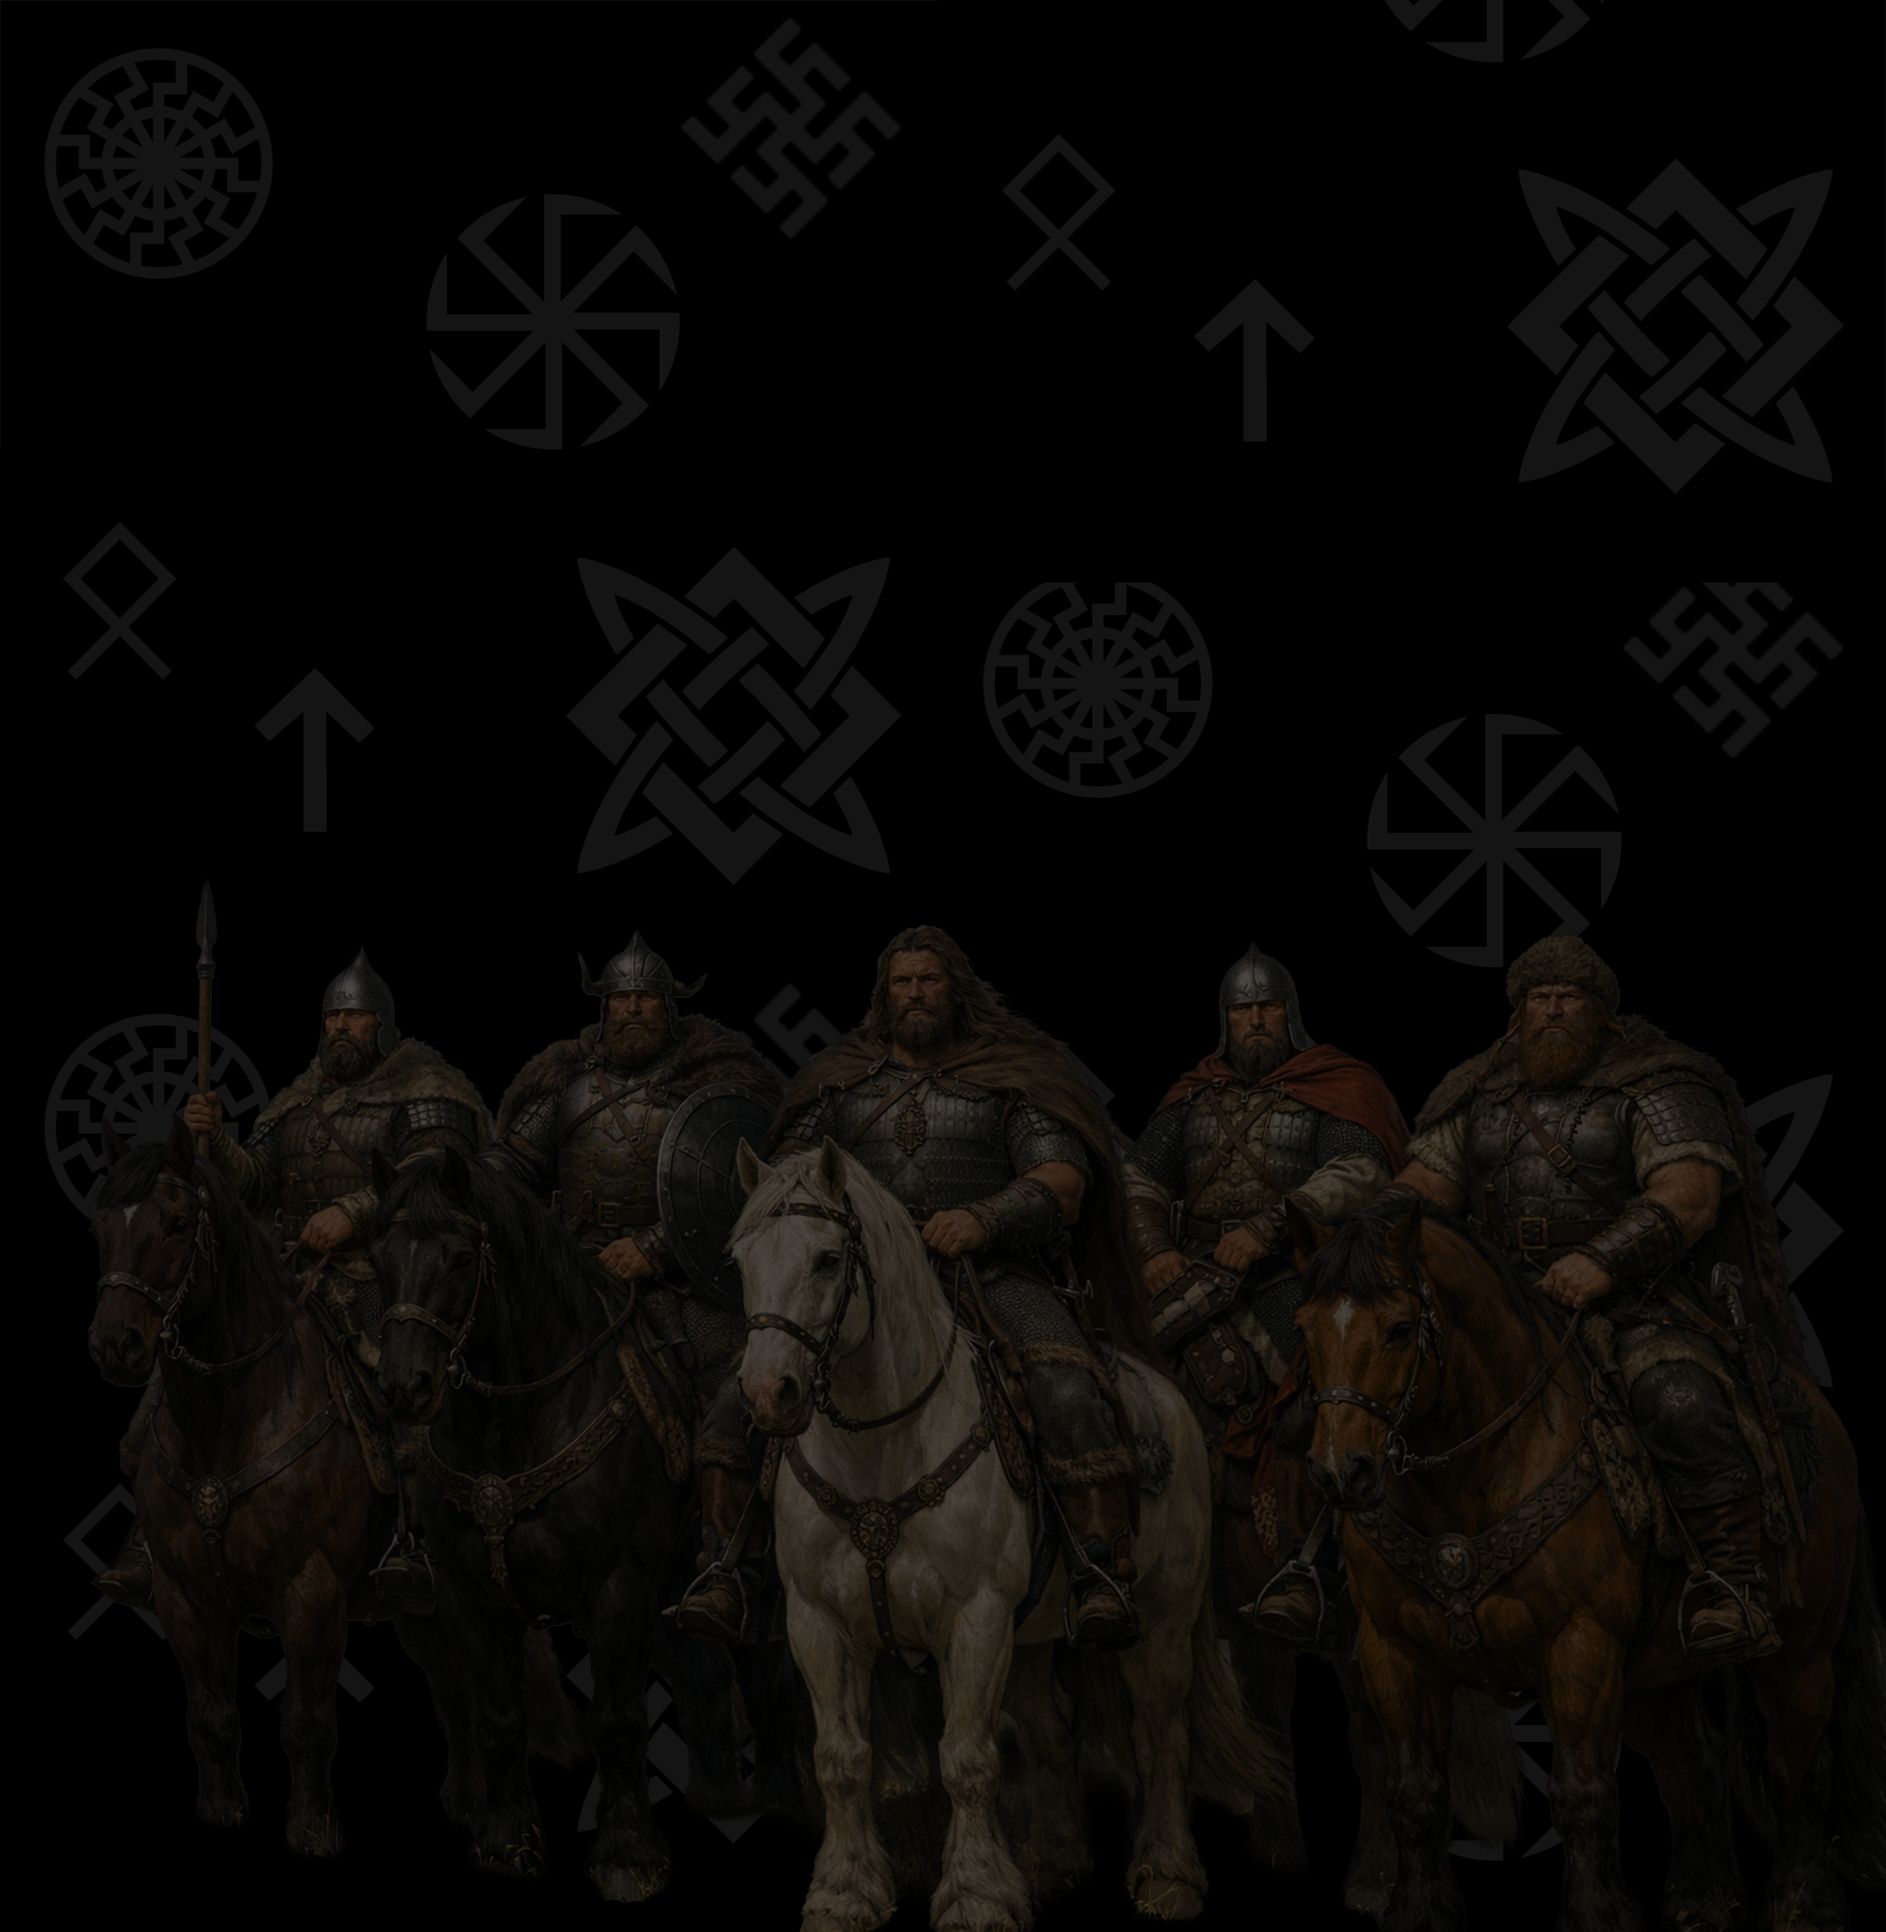
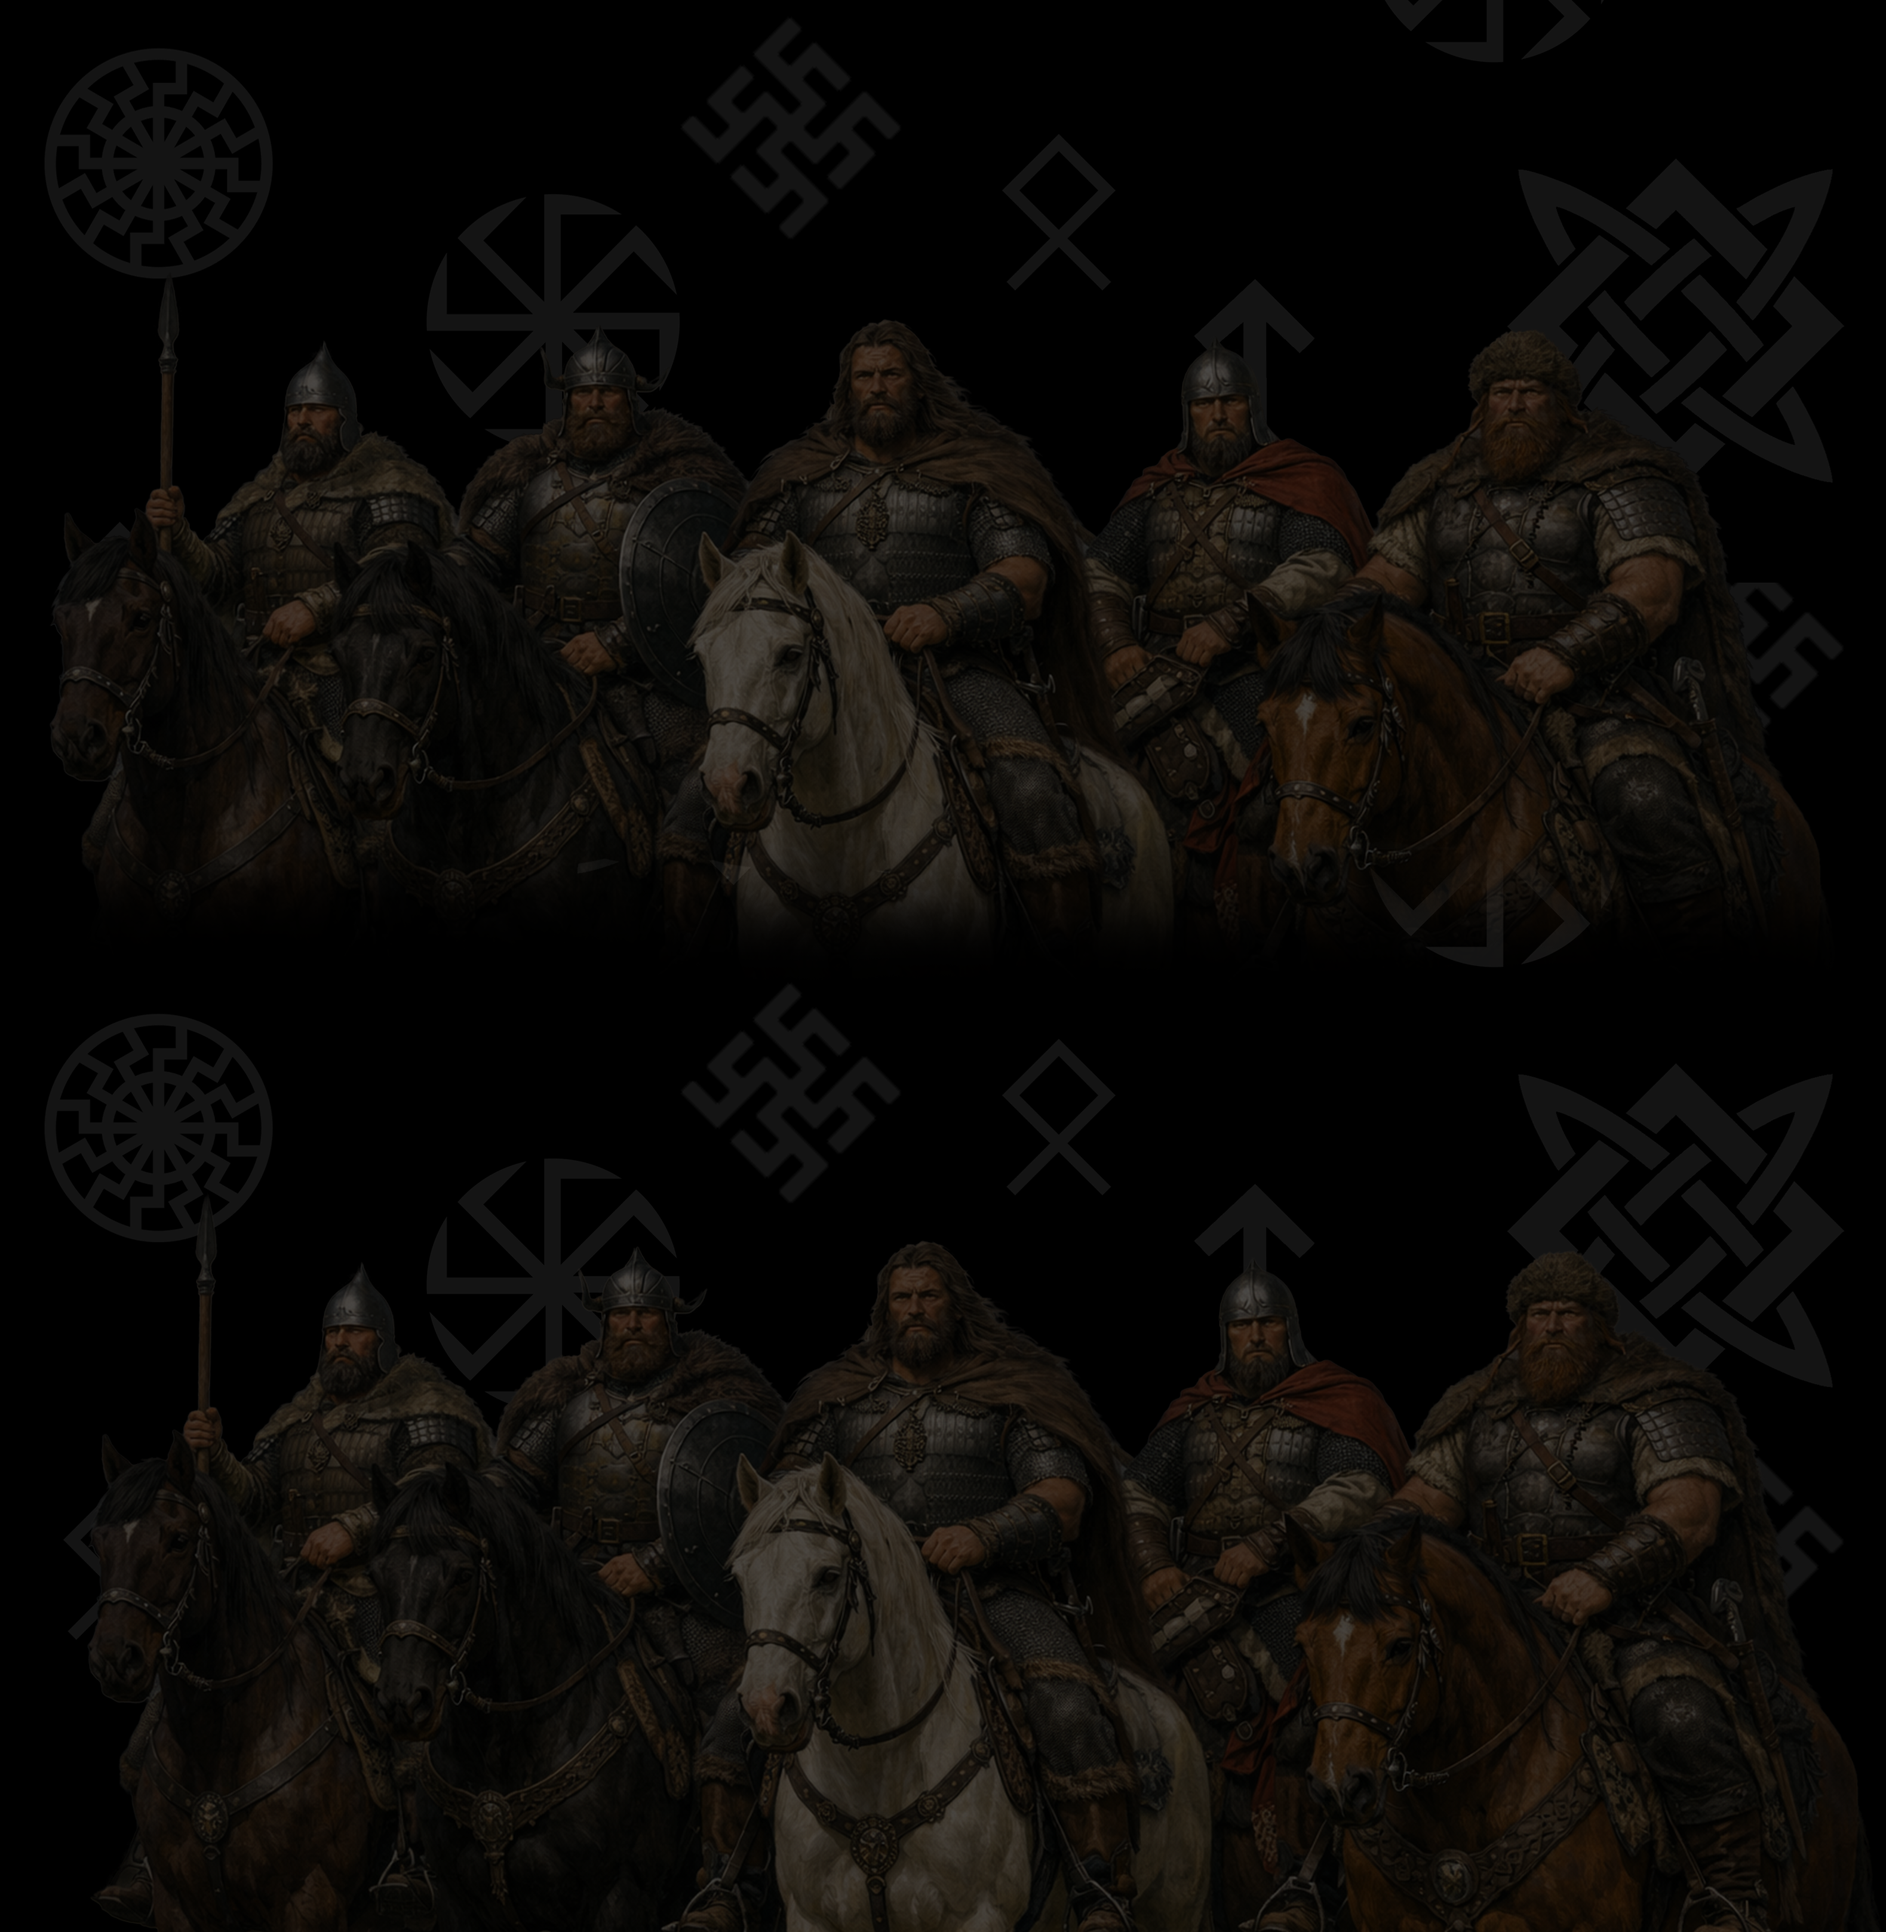
fix: update CSS and section components for new images\n\nUpdate background image positioning for new warriors layout

diff --git a/app/globals.css b/app/globals.css
@@ -131,14 +131,14 @@
     background-color: var(--dark-bg);
     background-image: url('/images/bg-black-pattern.png');
     background-size: cover;
-    background-position: center bottom;
+    background-position: center center;
     background-repeat: no-repeat;
   }
   .bg-pattern-grey {
     background-color: var(--dark-surface);
     background-image: url('/images/bg-grey-pattern.png');
     background-size: cover;
-    background-position: center bottom;
+    background-position: center center;
     background-repeat: no-repeat;
   }
 }

diff --git a/app/schedule-prices/page.tsx b/app/schedule-prices/page.tsx
@@ -22,7 +22,7 @@ export default function SchedulePricesPage() {
             backgroundColor: 'var(--dark-bg)',
             backgroundImage: 'url(/images/bg-black-pattern.png)',
             backgroundSize: 'cover',
-            backgroundPosition: 'center bottom',
+            backgroundPosition: 'center center',
             backgroundRepeat: 'no-repeat',
           }}
         >

diff --git a/app/contacts/page.tsx b/app/contacts/page.tsx
@@ -20,7 +20,7 @@ export default function ContactsPage() {
             backgroundColor: 'var(--dark-bg)',
             backgroundImage: 'url(/images/bg-black-pattern.png)',
             backgroundSize: 'cover',
-            backgroundPosition: 'center bottom',
+            backgroundPosition: 'center center',
             backgroundRepeat: 'no-repeat',
           }}
         >

diff --git a/app/coaches/page.tsx b/app/coaches/page.tsx
@@ -21,7 +21,7 @@ export default function CoachesPage() {
             backgroundColor: 'var(--dark-bg)',
             backgroundImage: 'url(/images/bg-black-pattern.png)',
             backgroundSize: 'cover',
-            backgroundPosition: 'center bottom',
+            backgroundPosition: 'center center',
             backgroundRepeat: 'no-repeat',
           }}
         >

diff --git a/components/contacts/contacts-content.tsx b/components/contacts/contacts-content.tsx
@@ -67,7 +67,7 @@ export function ContactsContent() {
           backgroundColor: 'var(--dark-bg)',
           backgroundImage: 'url(/images/bg-black-pattern.png)',
           backgroundSize: 'cover',
-          backgroundPosition: 'center bottom',
+          backgroundPosition: 'center center',
           backgroundRepeat: 'no-repeat',
         }}
       >

diff --git a/components/schedule/pricing-section.tsx b/components/schedule/pricing-section.tsx
@@ -156,7 +156,7 @@ export function PricingSection() {
         backgroundColor: 'var(--dark-bg)',
         backgroundImage: 'url(/images/bg-black-pattern.png)',
         backgroundSize: 'cover',
-        backgroundPosition: 'center bottom',
+        backgroundPosition: 'center center',
         backgroundRepeat: 'no-repeat',
       }}
     >

diff --git a/components/home/reviews-section.tsx b/components/home/reviews-section.tsx
@@ -63,7 +63,7 @@ export function ReviewsSection() {
         backgroundColor: 'var(--dark-bg)',
         backgroundImage: 'url(/images/bg-black-pattern.png)',
         backgroundSize: 'cover',
-        backgroundPosition: 'center bottom',
+        backgroundPosition: 'center center',
         backgroundRepeat: 'no-repeat',
       }}
     >

diff --git a/components/home/why-us-section.tsx b/components/home/why-us-section.tsx
@@ -41,7 +41,7 @@ export function WhyUsSection() {
         backgroundColor: 'var(--dark-bg)',
         backgroundImage: 'url(/images/bg-black-pattern.png)',
         backgroundSize: 'cover',
-        backgroundPosition: 'center bottom',
+        backgroundPosition: 'center center',
         backgroundRepeat: 'no-repeat',
       }}
     >

diff --git a/components/home/hero-section.tsx b/components/home/hero-section.tsx
@@ -16,7 +16,7 @@ export function HeroSection() {
         backgroundColor: 'var(--dark-bg)',
         backgroundImage: 'url(/images/bg-black-pattern.png)',
         backgroundSize: 'cover',
-        backgroundPosition: 'center bottom',
+        backgroundPosition: 'center center',
         backgroundRepeat: 'no-repeat',
       }}
     >

diff --git a/components/home/cta-section.tsx b/components/home/cta-section.tsx
@@ -10,7 +10,7 @@ export function CtaSection() {
         backgroundColor: 'var(--dark-bg)',
         backgroundImage: 'url(/images/bg-black-pattern.png)',
         backgroundSize: 'cover',
-        backgroundPosition: 'center bottom',
+        backgroundPosition: 'center center',
         backgroundRepeat: 'no-repeat',
       }}
     >
